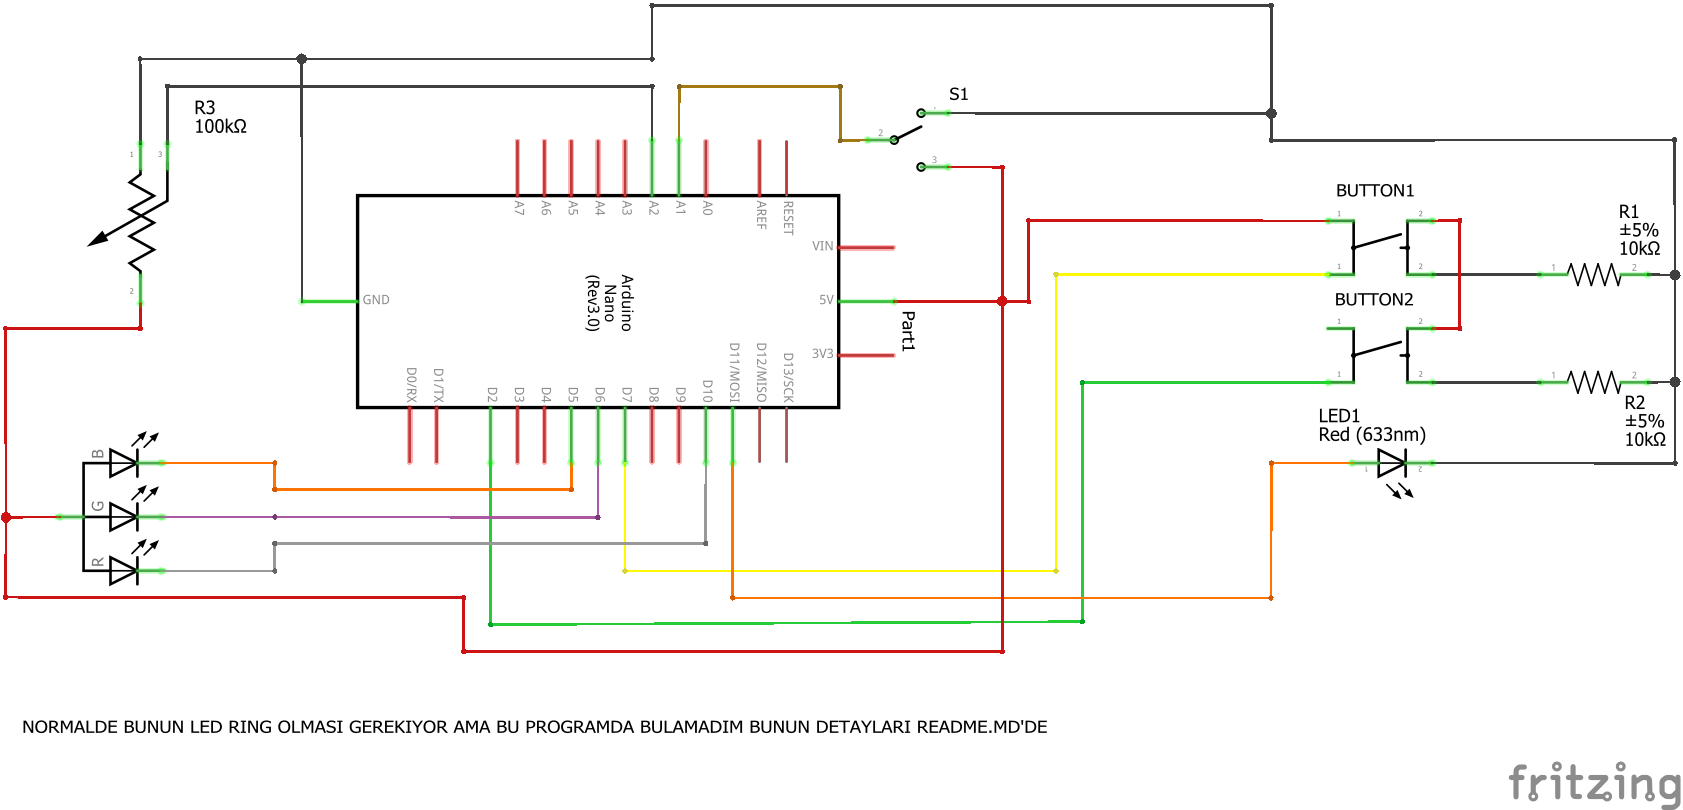
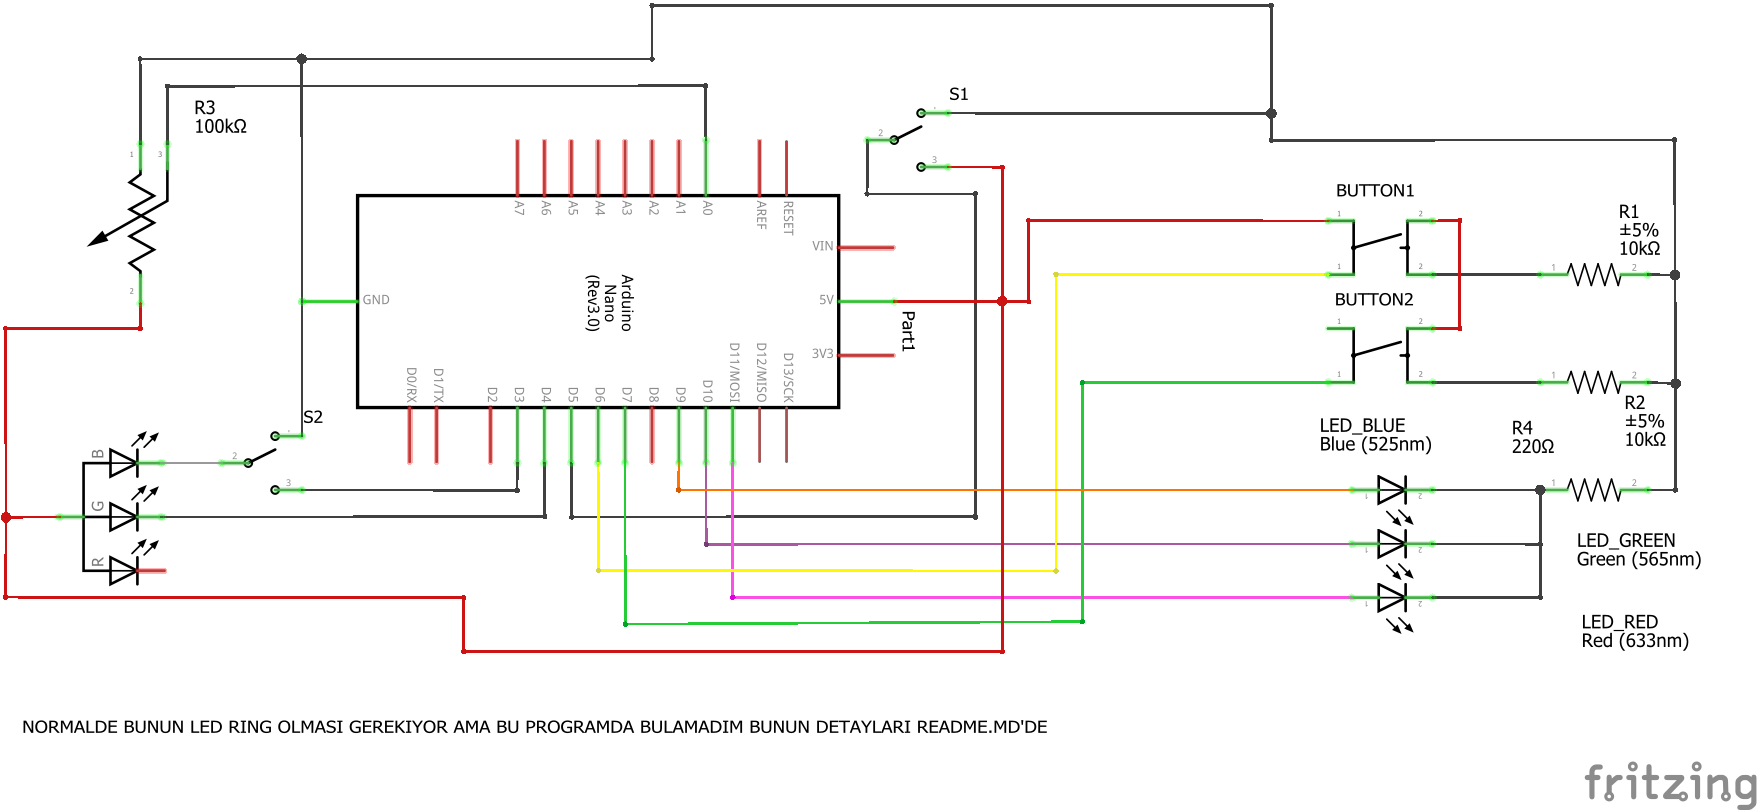
match mode dayak

diff --git a/NightVision.py b/NightVision.py
@@ -167,7 +167,7 @@ def json_read_thread():
     json_read_thread.finished = False
     settings = DbFunctions.read_settings_on_json(file_s)
 
-    print("bunu görmüyorsan kayra sakattır")
+    # print("bunu görmüyorsan kayra sakattır")
     
     if handle_error_lite(settings) == True:
         settings = {}
@@ -274,20 +274,25 @@ def main():
     que = queue.Queue()
     # t = threading.Thread(target=lambda q, arg1: q.put(json_read_thread(arg1)), args=(que, ""))
     # firsttimethreading = True
-    is_MM_started = False
+    # is_MM_started = False
     w_timed = 5
-
+    m_timed = 20
 
     while True:
         elapsed = timeit.default_timer() - start_t 
 
-        # print(threading.active_count())
 
-        if is_MM_started is None or is_MM_started is False:        
+        if is_MM_started is None or str(is_MM_started) == "False":        
             if elapsed >= w_timed:
                 start_t = timeit.default_timer()
                 robo_loc, cam_tol, wait_per, auto_mode, cam_off, is_MM_started = json_read_thread()
                 print("db1")
+        
+        elif str(is_MM_started) == "True":        
+            if elapsed >= m_timed:
+                start_t = timeit.default_timer()
+                robo_loc, cam_tol, wait_per, auto_mode, cam_off, is_MM_started = json_read_thread()
+                print("db2")
         
 
             

diff --git a/InputPlus.py b/InputPlus.py
@@ -1223,15 +1223,16 @@ def not_main(stdscr):
         # led1 = board.get_pin("d:11:p")
         
         # Tüm arduino pinlerin tanımlaması
-        pot1 = board.get_pin("a:0:i")
-        swt1 = board.get_pin("d:5:i")
-        but1 = board.get_pin("d:6:i")
-        but2 = board.get_pin("d:7:i")
         
-        led_camera = board.get_pin("d:3:o")
-        led_blue = board.get_pin("d:9:p")
-        led_green = board.get_pin("d:10:p")
-        led_red = board.get_pin("d:11:p")
+        
+        pot1 = board.get_pin(pot1_str)
+        swt1 = board.get_pin(swt1_str)
+        but1 = board.get_pin(but1_str)
+        but2 = board.get_pin(but2_str)
+        led_camera = board.get_pin(cam_str)
+        led_blue = board.get_pin(blue_str)
+        led_green = board.get_pin(green_str)
+        led_red = board.get_pin(red_str)
 
         # butonların basıldığını anlamak için iteratörleri çalıştırır
         time.sleep(0.5)

diff --git a/frc_lib7839.py b/frc_lib7839.py
@@ -41,6 +41,28 @@ global main_menu_value
 global info_menu_value
 global ip_menu_value
 
+
+global pot1_str
+global swt1_str
+global but1_str
+global but2_str
+
+global cam_str
+global blue_str
+global green_str
+global red_str
+
+pot1_str = "a:0:i"
+swt1_str = "d:5:i"
+but1_str = "d:6:i"
+but2_str = "d:7:i"
+
+cam_str = "d:3:o"
+blue_str = "d:9:p"
+green_str = "d:10:p"
+red_str = "d:11:p"
+
+
 INTERNAL_KEY_GET_FUNC_ERR = "INTERNAL_KEY_GET_FUNCTION_ERROR"
 SERVER_ALREADY_STARTED_ERR = "SERVER_ALREADY_STARTED_ERROR"
 ARDUINO_CONN_LOST = "ARDUINO_CONNECTION_LOST"

diff --git a/README.md b/README.md
@@ -87,6 +87,9 @@ Raspberry Pi'a bilgisayardan bağlanmak için onunla aynı ağ üzerinde olmamı
 
 http://frcvision.local adresine gidin ve sistem üzerinde değişiklik yapabilmek için <kbd>Writable</kbd> butonuna basın. http://frcvision.local adresi her zaman çalışmayabilir. Aynı internet üzerinde ağ taraması yaparak ([Nmap](https://nmap.org/download.html) veya [Advanced Ip Scanner](https://www.advanced-ip-scanner.com/tr/) gibi programlarla) Raspberry'nin local ip adresini bulup direkt o ip adresini tarayıcınızın URL kısmına o ip adresini yapıştırarak düzenlemeleir yapmak için FRCVision sisteminin arayüzüne girebilirsiniz.
 
+### Raspberry Pi'ın Ip Ayarlarının Yapılması
+
+
 ### SSH aracılığıyla Raspberry Pi'a bağlanma
 
 Rpi'a SSH ile bağlanmak için [Putty](https://www.putty.org/) kullanıyorum. Hostname kısmına `pi@frcvision.local` (Eğer tarayıcınızda frcvision.local çalışmadıysa pi@tarayıcıda-kullandığınız-ip-adresi) yazdıktan sonra opena basın. Açılan ekranda SSH bağlantısı için şifreyi soracak. Varsayılan şifre `raspberry`' dir. `sudo raspi-config` komutu yardımıyla şifre değiştirme dahil çoğu işlemi gerçekleştireceğiz.
